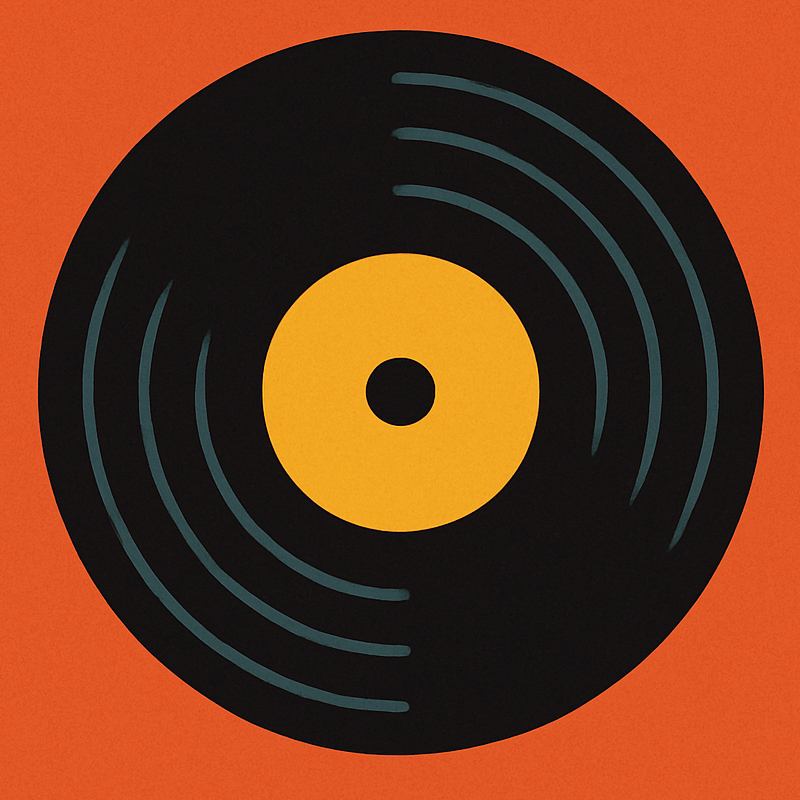
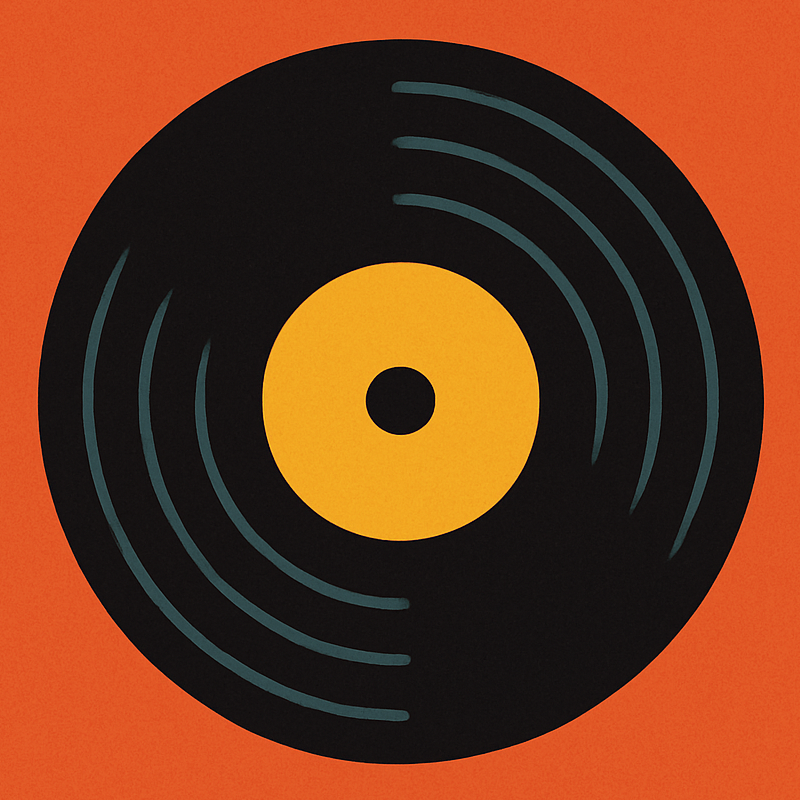
Cleaner spinner

diff --git a/lib/gallery_page.dart b/lib/gallery_page.dart
@@ -145,16 +145,44 @@ class _GalleryPageState extends State<GalleryPage>
   void _handleImageSearch() async {
     final ImagePicker picker = ImagePicker();
 
-    // Dismiss the "Add New Album" modal
+    // Close the "Add New Album" modal first
     Navigator.pop(context);
+
+    // Show a dialog to let the user choose between camera and gallery
+    final ImageSource? source = await showDialog<ImageSource>(
+      context: context,
+      builder: (context) => AlertDialog(
+        title: Text("Select Image Source"),
+        content: Column(
+          mainAxisSize: MainAxisSize.min,
+          children: [
+            ListTile(
+              leading: Icon(Icons.camera_alt),
+              title: Text("Take a Picture"),
+              onTap: () => Navigator.pop(context, ImageSource.camera),
+            ),
+            ListTile(
+              leading: Icon(Icons.photo_library),
+              title: Text("Choose from Gallery"),
+              onTap: () => Navigator.pop(context, ImageSource.gallery),
+            ),
+          ],
+        ),
+      ),
+    );
+
+    if (source == null) {
+      // User canceled the dialog
+      return;
+    }
 
     // Set the state to show the spinner immediately
     setState(() {
       _isProcessing = true;
     });
 
-    // Allow the user to pick an image
-    final XFile? image = await picker.pickImage(source: ImageSource.gallery);
+    // Allow the user to capture or pick an image
+    final XFile? image = await picker.pickImage(source: source);
 
     if (image == null) {
       // User canceled the image picker
@@ -492,7 +520,7 @@ class _GalleryPageState extends State<GalleryPage>
     super.initState();
     _controller = AnimationController(
       vsync: this,
-      duration: Duration(seconds: 2), // Adjust duration for spinning speed
+      duration: Duration(seconds: 8), // Adjust duration for spinning speed
     )..repeat(); // Repeat the animation indefinitely
 
     _loadLists();
@@ -507,6 +535,17 @@ class _GalleryPageState extends State<GalleryPage>
         widget.userId,
       );
       print("Lists loaded: $lists");
+
+      if (lists.isEmpty) {
+        // Create a default list if none exists
+        final defaultListId = DateTime.now().millisecondsSinceEpoch.toString();
+        await _firestoreService.setList(
+          widget.userId,
+          defaultListId,
+          name: "My Collection",
+        );
+        return _loadLists(); // Reload lists after creating the default list
+      }
 
       setState(() {
         _listNames = lists;
@@ -1104,55 +1143,59 @@ class _GalleryPageState extends State<GalleryPage>
                               if (index == _albums.length) {
                                 return GestureDetector(
                                   onTap: _showAddAlbumModal,
-                                  child: AnimatedBuilder(
-                                    animation: _controller,
-                                    builder: (context, child) {
-                                      final angle =
-                                          _controller.value *
-                                          360; // Map value to 0-360 degrees
-                                      return Padding(
-                                        padding: const EdgeInsets.all(8.0),
-                                        child: Container(
-                                          decoration: BoxDecoration(
-                                            gradient: LinearGradient(
-                                              colors: [
-                                                const Color.fromARGB(
-                                                  255,
-                                                  2,
-                                                  208,
-                                                  184,
+                                  child: Stack(
+                                    alignment: Alignment.center,
+                                    children: [
+                                      AnimatedBuilder(
+                                        animation: _controller,
+                                        builder: (context, child) {
+                                          final angle = _controller.value * 2 * pi; // Rotate 360 degrees
+                                          return Transform.rotate(
+                                            angle: angle,
+                                            child: Transform.scale(
+                                              scale: 1, // Scale up the spinning album
+                                              child: Center( // Ensure the spinning album is centered
+                                                child: ClipRRect(
+                                                  borderRadius: BorderRadius.circular(180), // Fully rounded corners
+                                                  child: Stack(
+                                                    alignment: Alignment.center, // Center the gradient and image
+                                                    children: [
+                                                      Image.asset(
+                                                        'assets/album.png', // Path to your vinyl record image
+                                                        width: 300, // Adjust size as needed
+                                                        height: 300,
+                                                        fit: BoxFit.cover,
+                                                      ),
+                                                      Container(
+                                                        decoration: BoxDecoration(
+                                                          gradient: LinearGradient(
+                                                            colors: [
+                                                              const Color.fromARGB(150, 2, 208, 184), // Semi-transparent teal
+                                                              const Color.fromARGB(150, 250, 125, 0),  // Semi-transparent orange
+                                                            ],
+                                                            begin: Alignment.topLeft,
+                                                            end: Alignment.bottomRight,
+                                                          ),
+                                                        ),
+                                                      ),
+                                                    ],
+                                                  ),
                                                 ),
-                                                const Color.fromARGB(
-                                                  255,
-                                                  250,
-                                                  125,
-                                                  0,
-                                                ),
-                                              ],
-                                              begin: Alignment(
-                                                cos(angle * pi / 180),
-                                                sin(angle * pi / 180),
-                                              ),
-                                              end: Alignment(
-                                                -cos(angle * pi / 180),
-                                                -sin(angle * pi / 180),
                                               ),
                                             ),
-                                            borderRadius: BorderRadius.circular(
-                                              160,
-                                            ),
-                                          ),
-                                          child: child,
-                                        ),
-                                      );
-                                    },
-                                    child: Center(
-                                      child: Icon(
-                                        Icons.add,
-                                        size: 90,
-                                        color: Colors.white,
+                                          );
+                                        },
                                       ),
-                                    ),
+                                      // The "+" sign remains stationary
+                                      Text(
+                                        "+",
+                                        style: TextStyle(
+                                          fontSize: 130, // Larger font size for visibility
+                                          fontWeight: FontWeight.bold,
+                                          color: Colors.white,
+                                        ),
+                                      ),
+                                    ],
                                   ),
                                 );
                               }

diff --git a/lib/settings_page.dart b/lib/settings_page.dart
@@ -68,9 +68,80 @@ class _SettingsPageState extends State<SettingsPage> {
   }
 
   Future<void> _changePassword() async {
-    // Implement password change logic here
-    ScaffoldMessenger.of(context).showSnackBar(
-      SnackBar(content: Text('Password change functionality coming soon!')),
+    final TextEditingController currentPasswordController = TextEditingController();
+    final TextEditingController newPasswordController = TextEditingController();
+    final TextEditingController confirmPasswordController = TextEditingController();
+
+    showDialog(
+      context: context,
+      builder: (context) {
+        return AlertDialog(
+          title: Text('Change Password'),
+          content: Column(
+            mainAxisSize: MainAxisSize.min,
+            children: [
+              TextField(
+                controller: currentPasswordController,
+                obscureText: true,
+                decoration: InputDecoration(labelText: 'Current Password'),
+              ),
+              TextField(
+                controller: newPasswordController,
+                obscureText: true,
+                decoration: InputDecoration(labelText: 'New Password'),
+              ),
+              TextField(
+                controller: confirmPasswordController,
+                obscureText: true,
+                decoration: InputDecoration(labelText: 'Confirm New Password'),
+              ),
+            ],
+          ),
+          actions: [
+            TextButton(
+              onPressed: () => Navigator.of(context).pop(),
+              child: Text('Cancel'),
+            ),
+            TextButton(
+              onPressed: () async {
+                if (newPasswordController.text != confirmPasswordController.text) {
+                  ScaffoldMessenger.of(context).showSnackBar(
+                    SnackBar(content: Text('Passwords do not match!')),
+                  );
+                  return;
+                }
+
+                final user = _auth.currentUser;
+                if (user != null) {
+                  try {
+                    final cred = EmailAuthProvider.credential(
+                      email: user.email!,
+                      password: currentPasswordController.text,
+                    );
+
+                    // Reauthenticate the user
+                    await user.reauthenticateWithCredential(cred);
+
+                    // Update the password
+                    await user.updatePassword(newPasswordController.text);
+
+                    Navigator.of(context).pop();
+                    ScaffoldMessenger.of(context).showSnackBar(
+                      SnackBar(content: Text('Password updated successfully!')),
+                    );
+                  } catch (e) {
+                    Navigator.of(context).pop();
+                    ScaffoldMessenger.of(context).showSnackBar(
+                      SnackBar(content: Text('Failed to update password: $e')),
+                    );
+                  }
+                }
+              },
+              child: Text('Change'),
+            ),
+          ],
+        );
+      },
     );
   }
 

diff --git a/lib/auth_page.dart b/lib/auth_page.dart
@@ -25,7 +25,6 @@ class _AuthPageState extends State<AuthPage> {
         ),
         backgroundColor: Colors.teal.shade800, // Set the background color here
       ),
-      //backgroundColor: Color.fromARGB(255, 255, 179, 0), // Replace with your image's background color
       body: Padding(
         padding: const EdgeInsets.all(16.0),
         child: SingleChildScrollView(
@@ -46,7 +45,7 @@ Widget _buildLogo() {
   return FractionallySizedBox(
     widthFactor: 0.8, // Use 80% of the screen width
     child: AspectRatio(
-      aspectRatio: 16 / 9, // Replace with your image's aspect ratio
+      aspectRatio: 16 / 9, 
       child: Image.asset(
         'assets/TheSpindexFullLogo.png',
         fit: BoxFit.contain,
@@ -147,10 +146,12 @@ Widget _buildLogo() {
       );
       if (user != null) {
         _showToast("Signed up: ${user.uid}");
-        await _createDefaultList(user);
+        await _createDefaultList(user); // Ensure the default list is created
         Navigator.pushReplacement(
           context,
-          MaterialPageRoute(builder: (context) => MainPage()),
+          MaterialPageRoute(
+            builder: (context) => MainPage(), // Navigate only after list creation
+          ),
         );
       }
     } catch (e) {

diff --git a/lib/main.dart b/lib/main.dart
@@ -1,14 +1,8 @@
-import 'dart:io';
 import 'package:flutter/material.dart';
-import 'package:image_picker/image_picker.dart';
-import 'package:flutter_dotenv/flutter_dotenv.dart';
 import 'package:firebase_core/firebase_core.dart';
 import 'package:firebase_auth/firebase_auth.dart';
-import 'package:spindex/lists_page.dart';
 import 'package:spindex/settings_page.dart';
-import 'openai_service.dart';
 import 'gallery_page.dart';
-import 'album_scanner_page.dart';
 import 'auth_page.dart';
 import 'firebase_options.dart';
 import 'package:firebase_remote_config/firebase_remote_config.dart';
